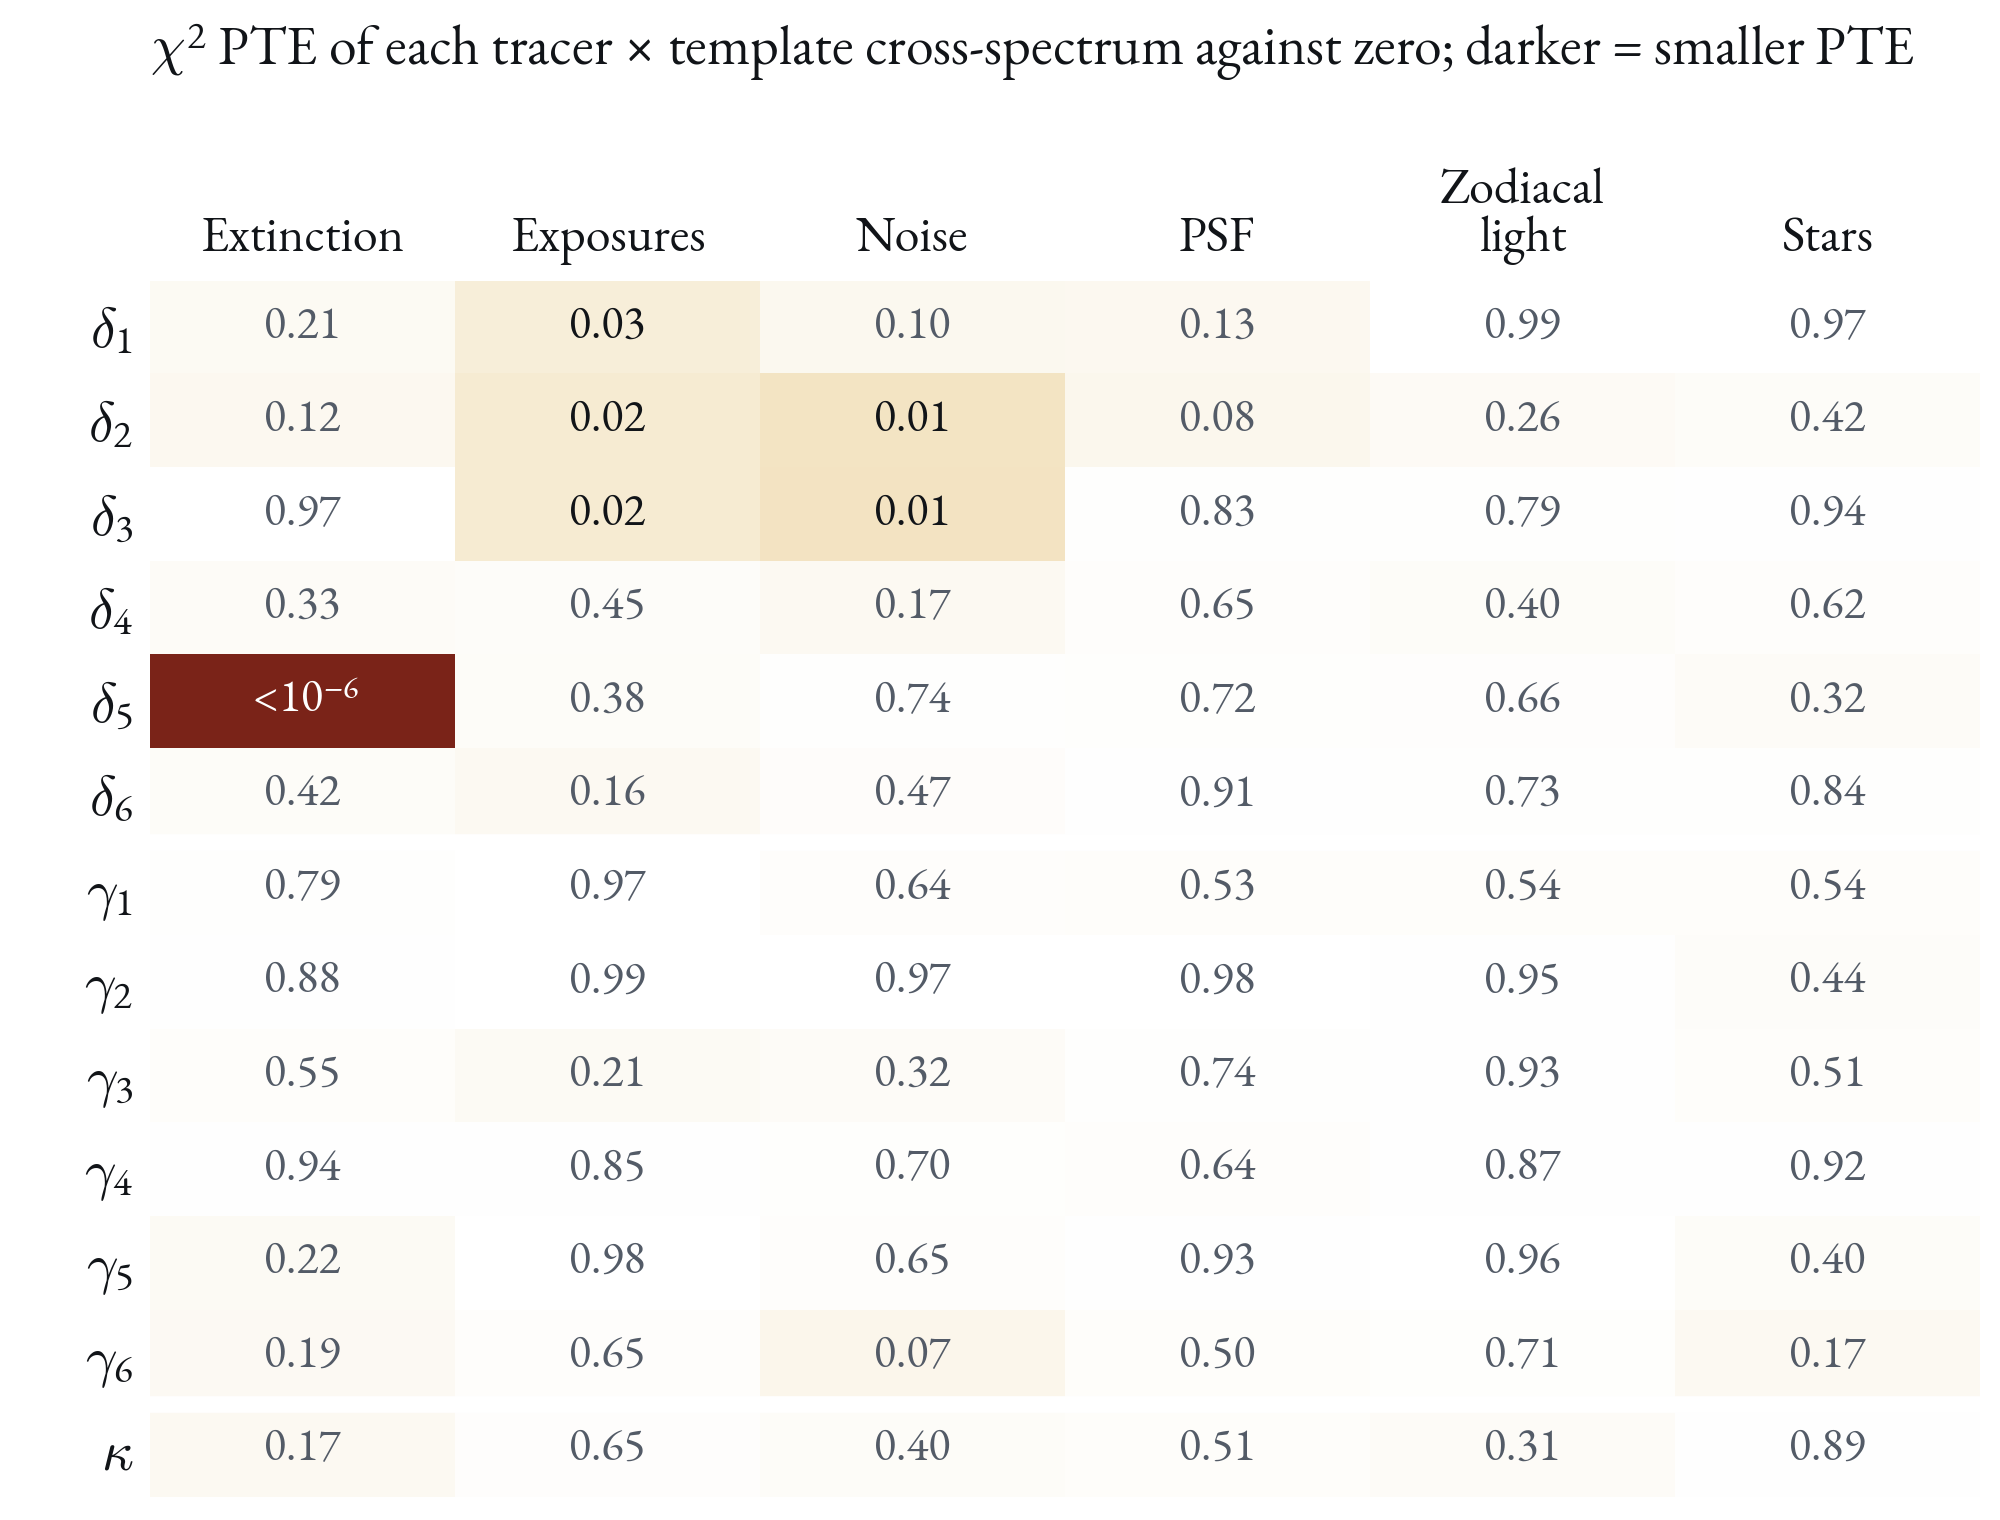
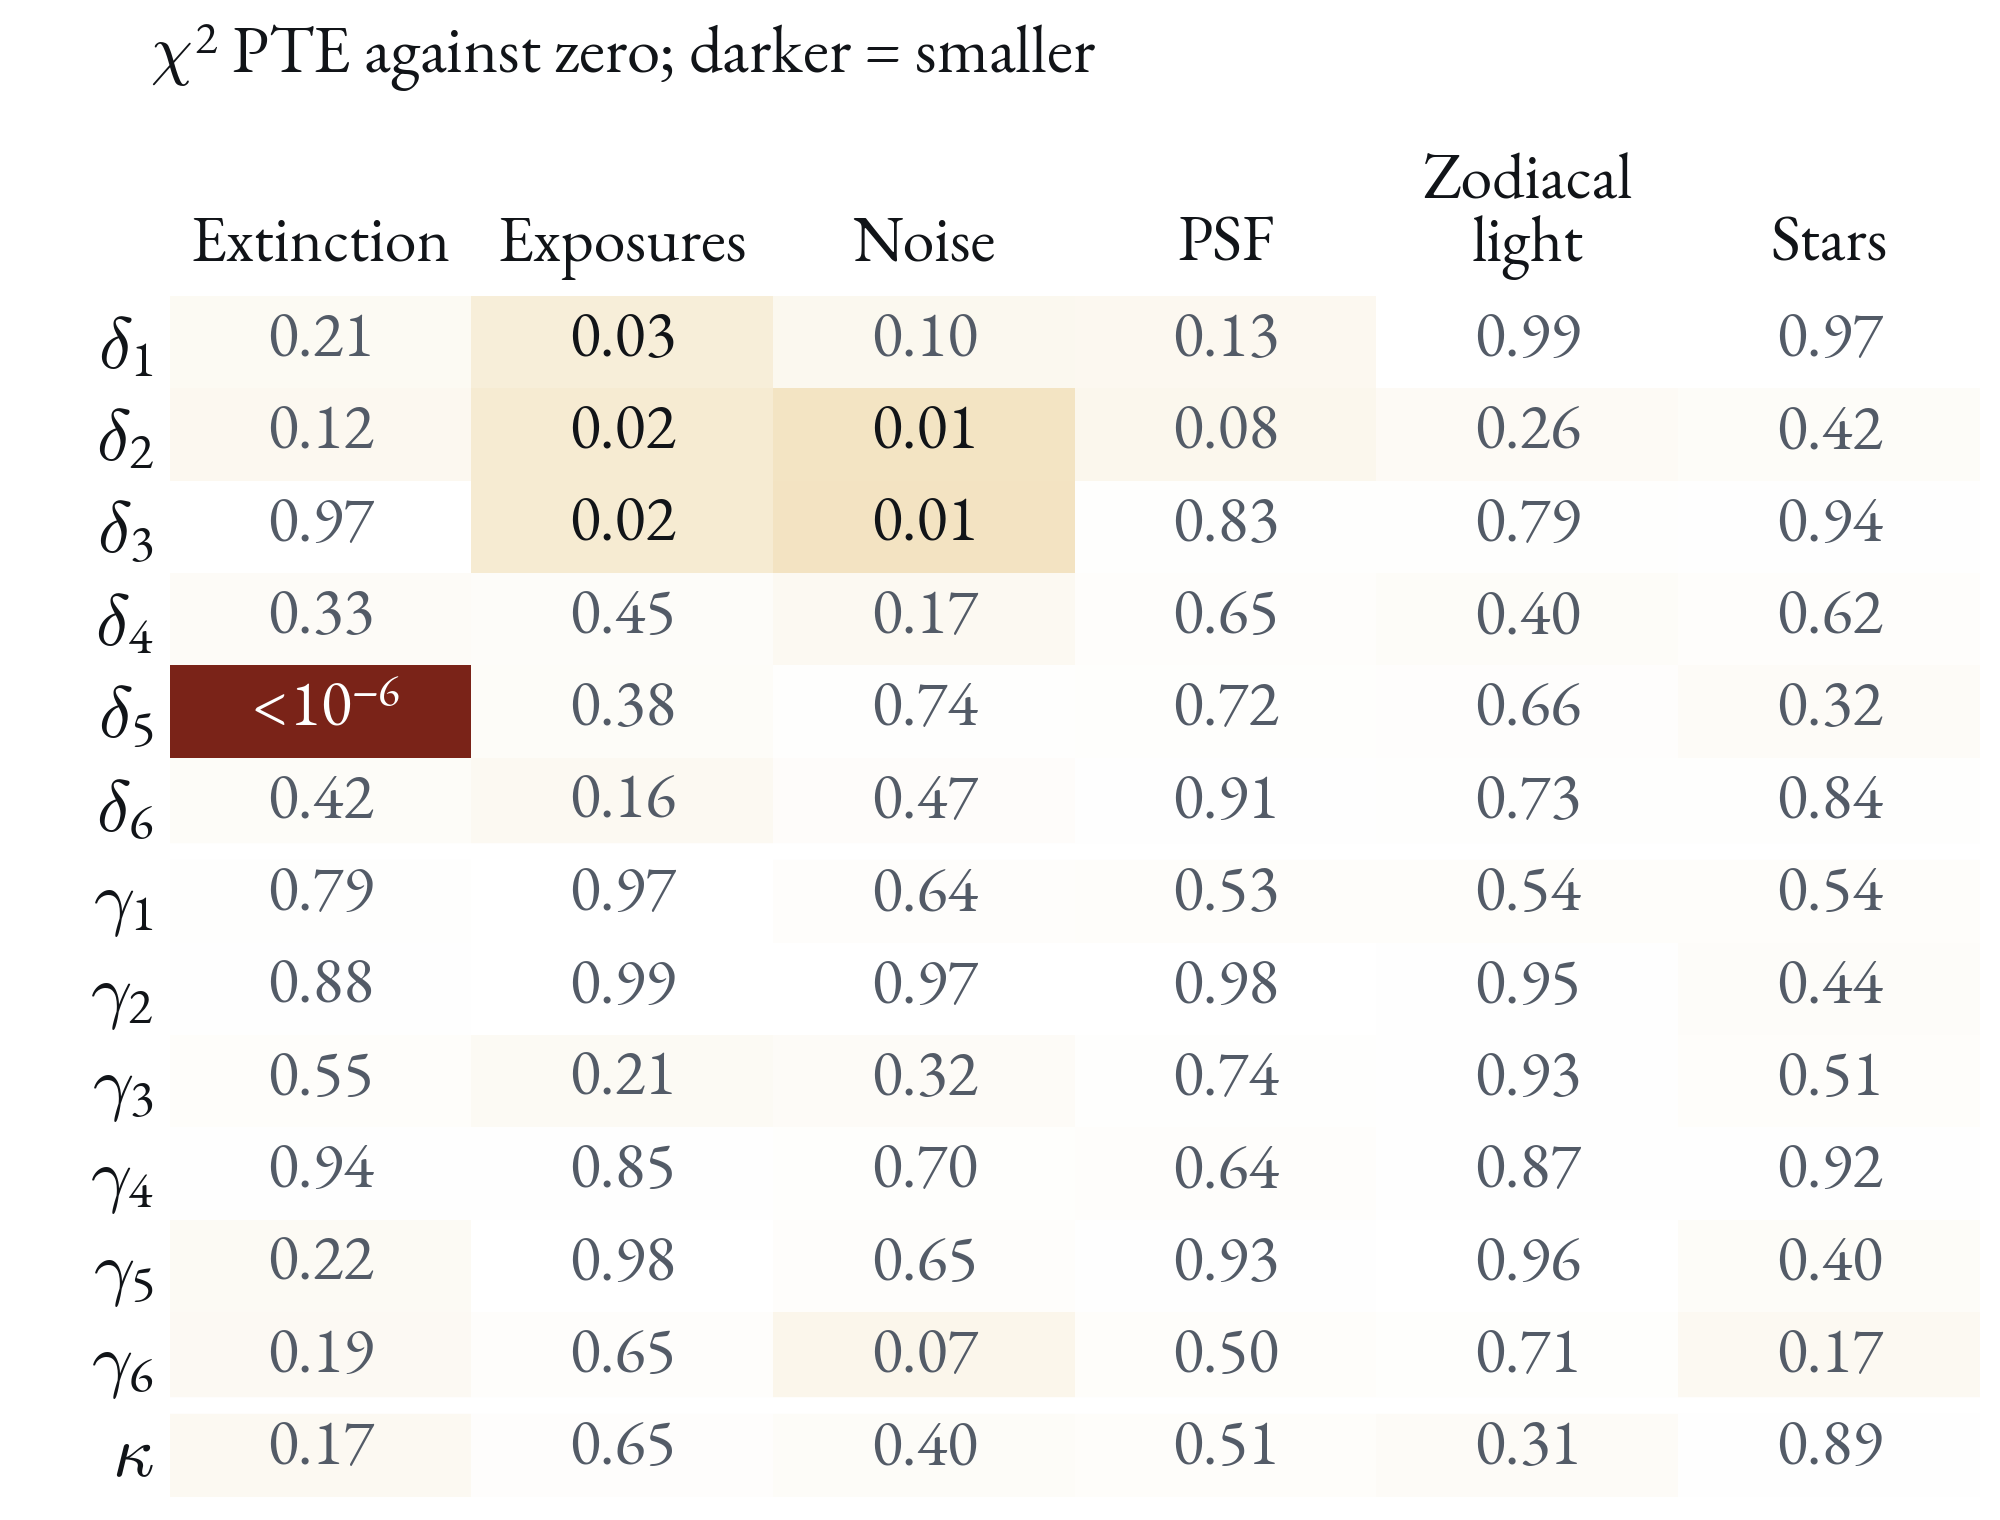
GC-8 deck: heatmap text at slide size (cell numbers ~32 px), box re-placed on the density rows
Claude-Session: https://claude.ai/code/session_01DdoSpWgVVP1Ent4tuDNSHm

diff --git a/2610_GC8_Systematics/slides/systematics-overview.html b/2610_GC8_Systematics/slides/systematics-overview.html
@@ -2,7 +2,7 @@
   <h2>Survey-template nulls for the density bins</h2>
   <figure>
     <img src="images/gc8_heatmap_c1.png" data-alt='{"c2": "images/gc8_heatmap_c2.png"}' alt="Table of null-test probabilities to exceed: rows are lens bins delta 1 to 6, source bins gamma 1 to 6 and CMB lensing kappa, columns six systematics templates. In Cycle 1 every cell is light except delta 5 against extinction">
-    <mark class="box red" data-box="3 17.9 96.6 37.9"></mark>
+    <mark class="box red" data-box="3 18.9 96.6 37.7"></mark>
     <span class="source"><span data-variant="c1">Cycle 1: TR1 v1.1</span><span data-variant="c2">Cycle 2: tr1_v2</span> · LensMC × SPT-3G · $100 \lt \ell \lt 3000$</span>
   </figure>
   <div class="text">

diff --git a/2610_GC8_Systematics/make_cycles.py b/2610_GC8_Systematics/make_cycles.py
@@ -201,24 +201,24 @@ def heatmap(cycle):
         'calm', [(0, '#FFFFFF'), (1.3 / 6, '#FBF6EA'), (2.0 / 6, '#F1DFB8'), (3.2 / 6, '#D9A85A'),
                  (4.6 / 6, '#A8542B'), (1, '#7A2318')])
     fig = plt.figure(figsize=(10.0, 7.6), dpi=DPI)
-    ax = fig.add_axes([0.075, 0.015, 0.915, 0.80])
+    ax = fig.add_axes([0.085, 0.015, 0.905, 0.79])
     Z = np.clip(-np.log10(np.maximum(np.nan_to_num(P, nan=1.0), 1e-300)), 0, 6)
     ax.imshow(Z, cmap=cmap, vmin=0, vmax=6, aspect='auto')
     if have:
         for (i, j), p in np.ndenumerate(P):
             z = Z[i, j]
-            ax.text(j, i, fmt(p), ha='center', va='center', fontsize=16.5,
+            ax.text(j, i, fmt(p), ha='center', va='center', fontsize=23,
                     color='white' if z > 4.0 else (INK if z > 1.3 else MUTED))
-    ax.set_yticks(range(13), ROW_LABELS, fontsize=20)
+    ax.set_yticks(range(13), ROW_LABELS, fontsize=26)
     ax.xaxis.tick_top()
-    ax.set_xticks(range(len(TEMPLATES)), [t[2] for t in TEMPLATES], fontsize=18, linespacing=0.95)
+    ax.set_xticks(range(len(TEMPLATES)), [t[2] for t in TEMPLATES], fontsize=23, linespacing=0.95)
     ax.tick_params(length=0, colors=INK, pad=6)
     for sp in ax.spines.values():
         sp.set_visible(False)
     for y in (5.5, 11.5):
         ax.axhline(y, color='white' if have else RULE, lw=6 if have else 2)
-    fig.text(0.075, 0.985, r'$\chi^2$ PTE of each tracer $\times$ template cross-spectrum against zero; '
-             r'darker = smaller PTE', fontsize=20, color=INK, ha='left', va='top')
+    fig.text(0.075, 0.985, r'$\chi^2$ PTE against zero; darker = smaller', fontsize=24, color=INK,
+             ha='left', va='top')
     if not have:
         missing = [n for n, v in data.items() if v is None]
         pending_note(fig, 'tr1_v2 systematics.gaussian_null_family\nnot yet materialized',
